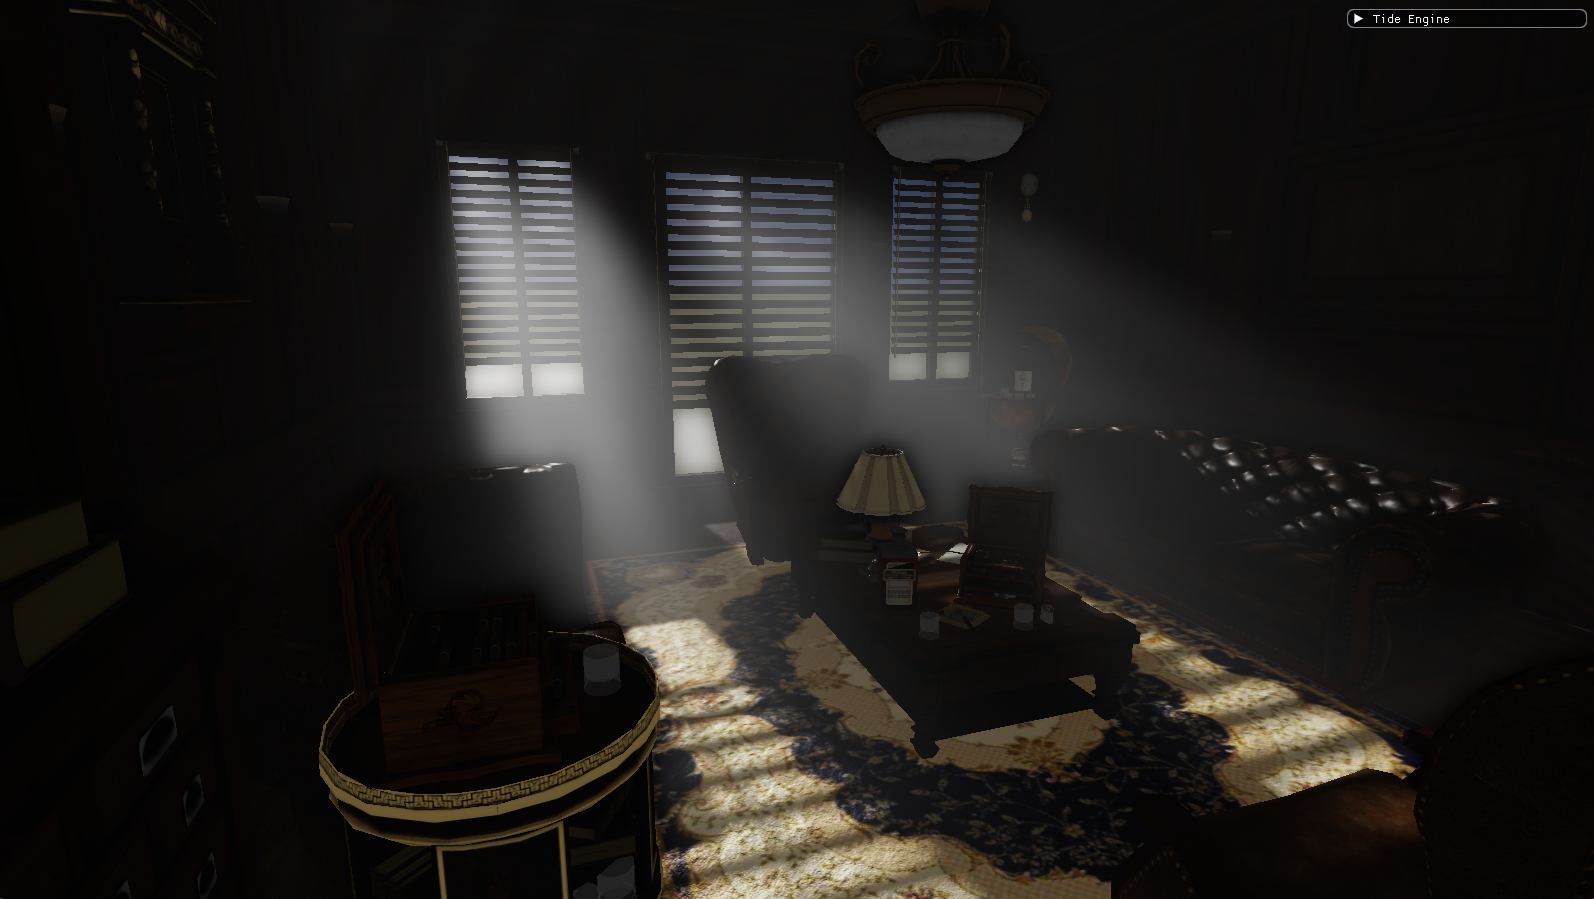
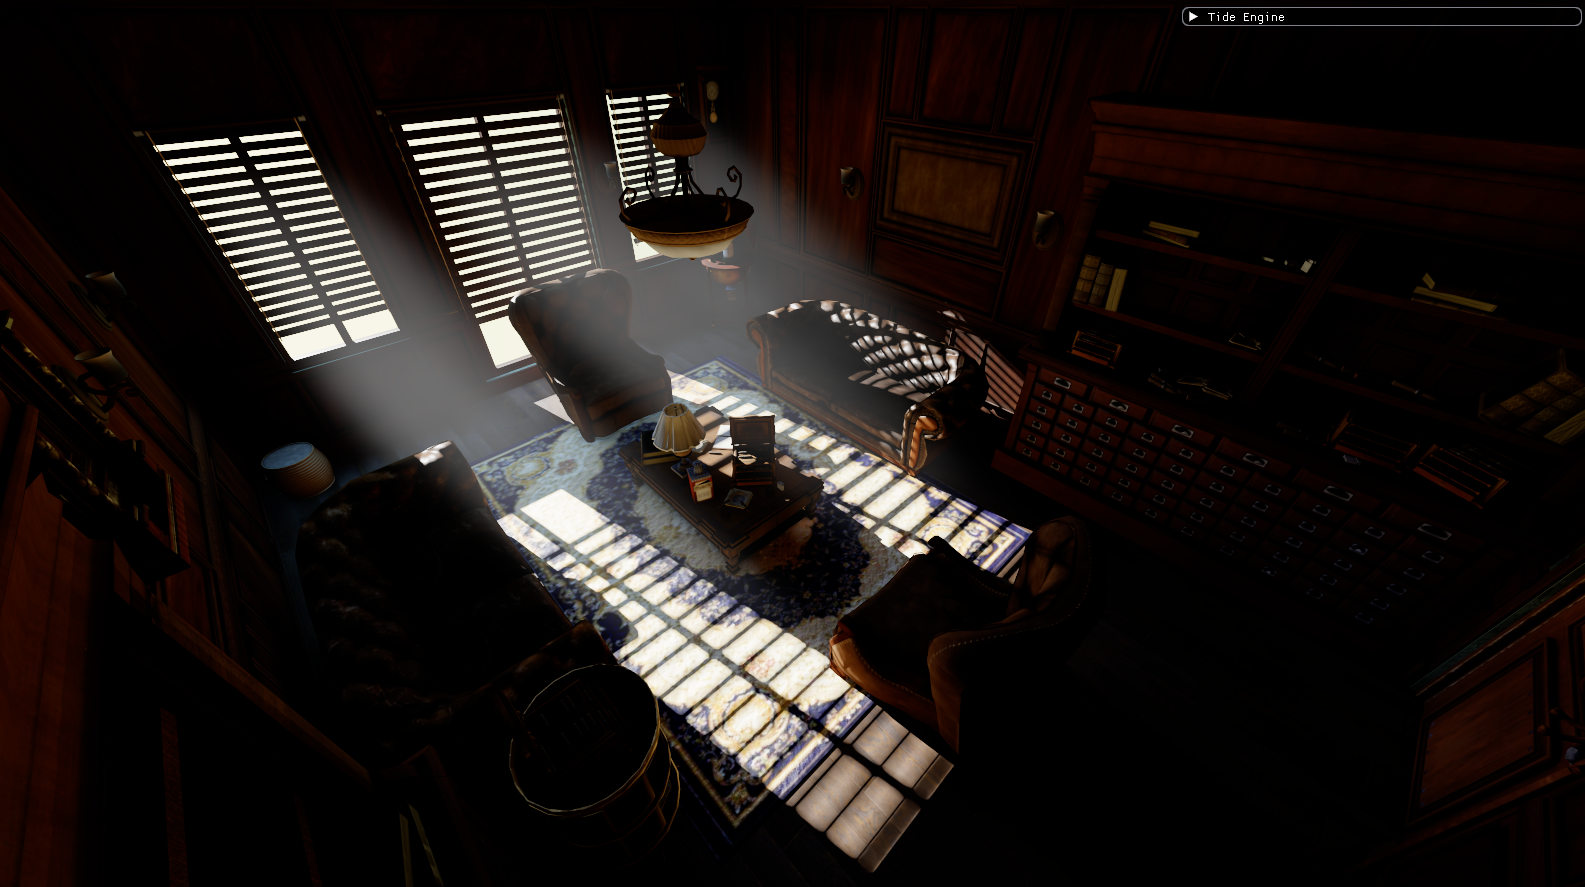
little things

diff --git a/Tide Engine/src/ui.cpp b/Tide Engine/src/ui.cpp
@@ -359,6 +359,12 @@ void Ui::buildPanel(Settings& s, Camera& cam, bool camPlaying, bool& playToggled
     ImGui::SliderFloat("Exposure",  &s.exposure,        0.1f, 200.0f);
     ImGui::PopItemWidth();
 
+    // ---- Camera ----
+    ImGui::SeparatorText("Camera");
+    ImGui::SetNextItemWidth(150.0f);
+    ImGui::SliderFloat("FOV", &cam.fovDeg, 30.0f, 120.0f, "%.0f deg");
+    ImGui::SetItemTooltip("Vertical field of view. Higher = wider angle (more in frame, stronger perspective).");
+
     // ---- Camera path: capture waypoints, reorder/delete, play a flythrough. ----
     ImGui::SeparatorText("Camera Path");
     ImGui::BeginDisabled(camPlaying); // no editing mid-playback

diff --git a/README.md b/README.md
@@ -46,16 +46,33 @@ The engine supports interchangeable, mutually exclusive denoisers to clean up th
 *   **Multi-Bounce Feedback:** Probes re-sample the previous frame's irradiance at ray hits (RTXGI-style), so light energy accumulates over multiple bounces and naturally fills the room.
 *   **Probe Classification (Leak-Free):** Probes that land inside or behind geometry are detected (via backface ray ratio) and excluded from interpolation, eliminating light leaks through thin walls with **zero per-pixel rays** — true to DDGI's amortized design. Combined with Chebyshev variance-depth visibility and temporal hysteresis.
 
+### 🌑 Ray Traced Ambient Occlusion (RTAO)
+*   **TLAS-Based AO:** Cosine-weighted hemisphere rays are traced against the scene acceleration structure to compute exact contact and corner occlusion.
+*   **Indirect-Only Modulation:** AO darkens only the ambient/indirect term, grounding objects without crushing direct sunlight.
+*   **Shared Denoiser Stack:** Piggybacks the shadow denoiser (Temporal / SVGF / DLSS RR), so just a few rays per pixel resolve cleanly.
+
 ### 🛠️ Developer Tools & Utilities
 *   **Real-time UI:** Immediate feedback and variable tweaking via integrated ImGui.
+*   **Cinematic Camera Path:** Capture camera waypoints, reorder/edit them in-place, and play a smooth flythrough (position lerp + quaternion-slerp rotation), with optional looping — ideal for demo reels.
 *   **Profiling:** Deeply integrated Tracy CPU and GPU markers for granular performance analysis.
-*   **State Persistence:** Saves and loads camera coordinates and environment settings on the fly.
+*   **State Persistence:** Saves and loads camera coordinates, the camera path, and all environment settings on the fly.
 
 ## 🚧 Status (Work In Progress)
 
 Tide Engine is currently **WIP**.
-**Recently Landed:** **RT-based DDGI (Dynamic Diffuse Global Illumination)** — a world-space probe grid built on the existing TLAS now captures and injects dynamic multi-bounce indirect light, replacing the old flat ambient term with leak-free, ray-traced GI.
-**Up Next:** Ambient occlusion and bloom/post-processing to round out the lighting pipeline.
+**Recently Landed:** **Ray Traced Ambient Occlusion (RTAO)** — TLAS-traced hemisphere occlusion that grounds geometry in corners and contact points, reusing the existing shadow denoiser stack.
+**Up Next:** Bloom and post-processing (and native-resolution anti-aliasing) to round out the lighting pipeline.
+
+## 🎮 Controls
+
+| Input | Action |
+|-------|--------|
+| **Right Mouse (hold)** | Look around |
+| **W / A / S / D** | Move forward / left / back / right |
+| **Q / E** | Move down / up |
+| **Left Shift (hold)** | Move faster |
+
+All rendering, lighting, fog, GI, AO, and tonemapping parameters — plus the cinematic camera-path editor — are tweakable live from the on-screen ImGui panel.
 
 ## 🚀 Building the Project
 